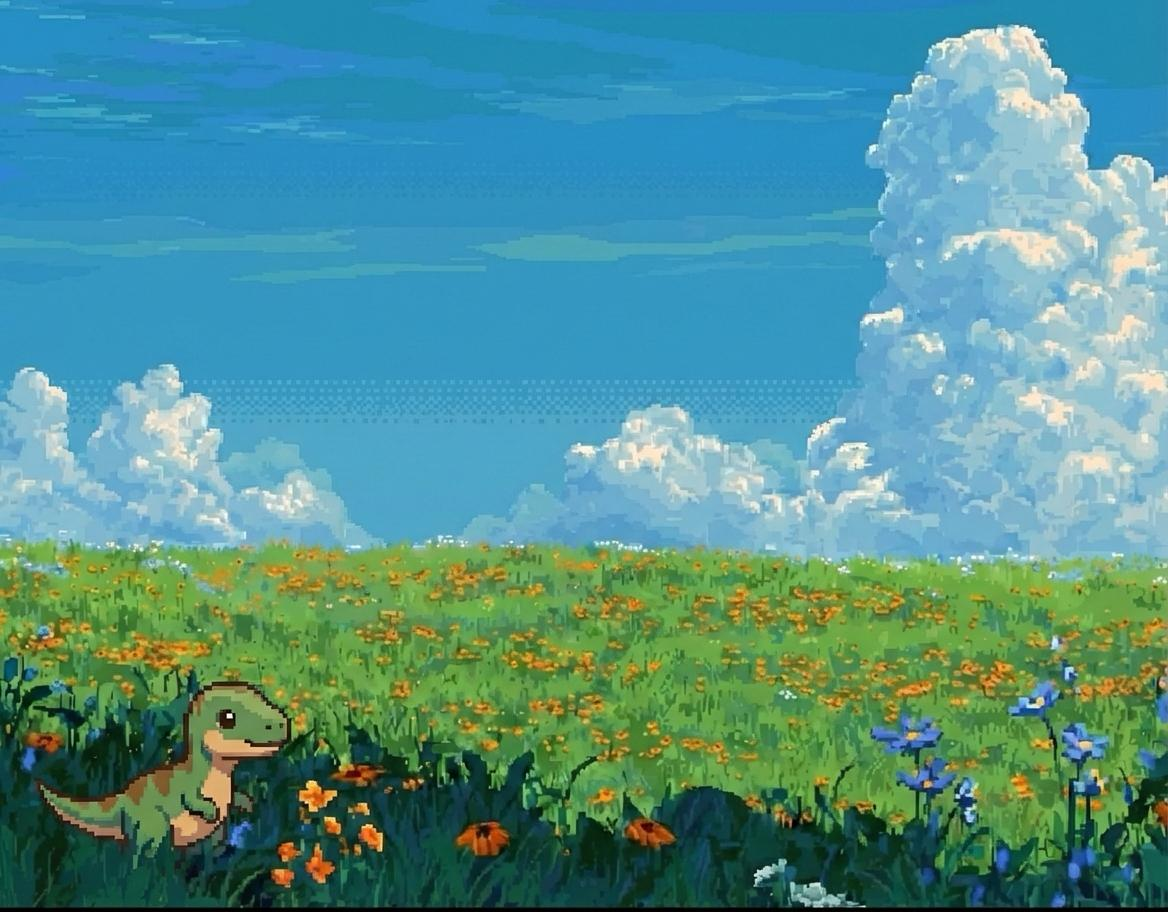
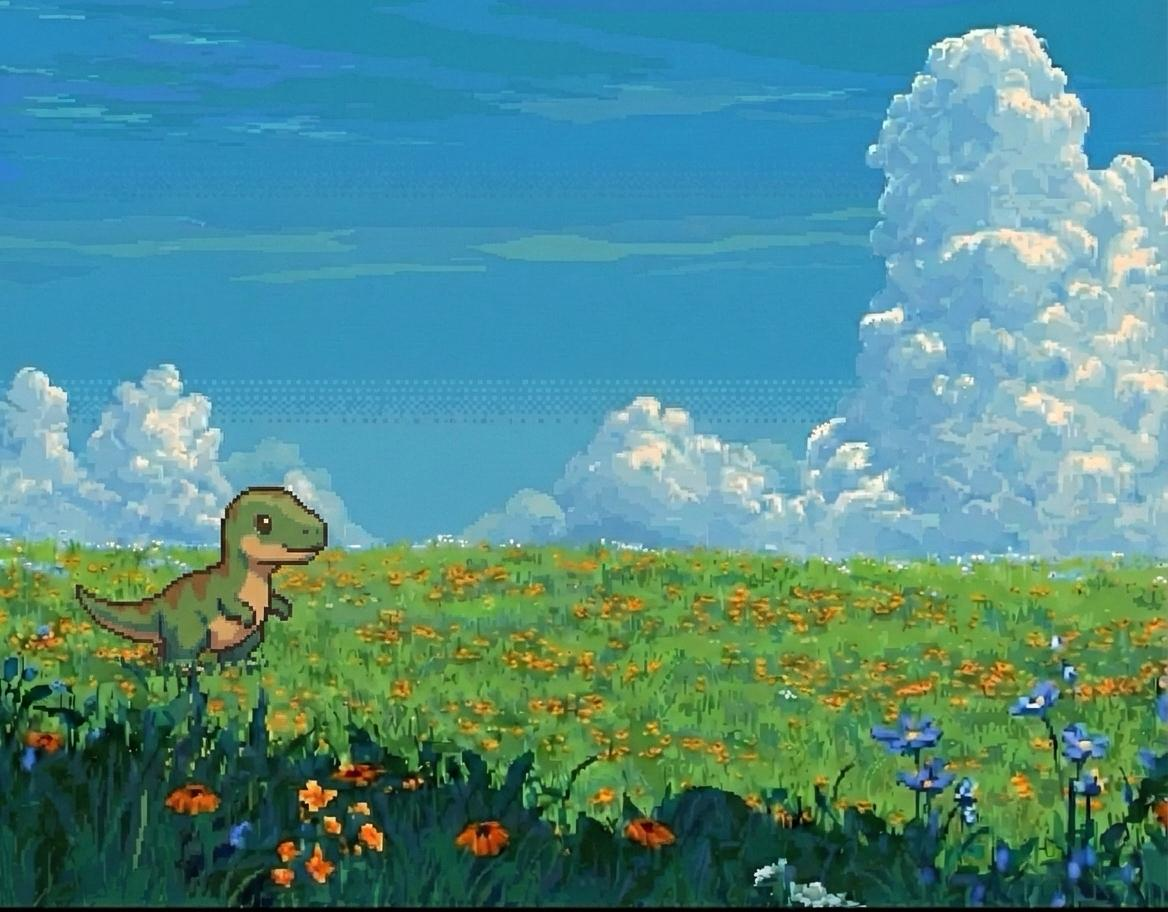
100vh hero, new background image, no stretch
- Hero wrapper is always 100vh
- New background image (standing dino)
- Background uses auto height (no stretch), positioned at bottom
- Blue background color fallback for wider screens
- HeroSection uses flex:1 to fill available space

diff --git a/web/src/components/VellumHomepage/VellumBody.tsx b/web/src/components/VellumHomepage/VellumBody.tsx
@@ -14,14 +14,19 @@ import { WorkflowCTA } from "./WorkflowCTA";
 export function VellumBody() {
   return (
     <>
-      {/* Hero wrapper with background spanning navbar, hero, and logo marquee */}
+      {/* Hero wrapper - always 100vh */}
       <div
         style={{
+          height: "100vh",
+          minHeight: "100vh",
           backgroundImage: "url('/hero-bg.jpg')",
-          backgroundSize: "cover",
+          backgroundSize: "auto 100%",
           backgroundPosition: "center bottom",
           backgroundRepeat: "no-repeat",
+          backgroundColor: "#3a8bc2",
           position: "relative",
+          display: "flex",
+          flexDirection: "column",
         }}
       >
         <NavBar />

diff --git a/web/src/components/VellumHomepage/HeroSection.tsx b/web/src/components/VellumHomepage/HeroSection.tsx
@@ -8,7 +8,7 @@ export function HeroSection() {
   return (
     <div 
       style={{ 
-        minHeight: "70vh",
+        flex: 1,
         display: "flex",
         alignItems: "center",
         justifyContent: "center",
